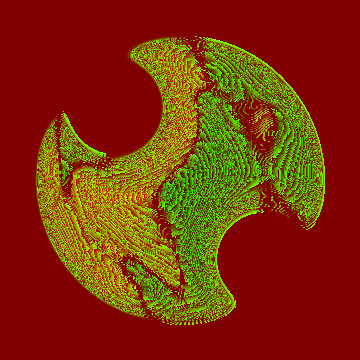
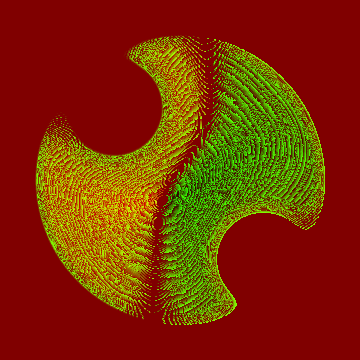
fix: increase bounded source visibility

diff --git a/verification/final-art-025-material-test/build_k2_view_conditioned_source.py b/verification/final-art-025-material-test/build_k2_view_conditioned_source.py
@@ -22,7 +22,7 @@ def smooth(a, b, x):
     t = np.clip((x - a) / (b - a), 0, 1)
     return t * t * (3 - 2 * t)
 
-def blurred(value, radius=8):
+def blurred(value, radius=30):
     image = Image.fromarray(np.rint(np.clip(value, 0, 1) * 255).astype(np.uint8))
     return np.asarray(image.filter(ImageFilter.GaussianBlur(radius)), dtype=np.float32) / 255.0
 
@@ -54,8 +54,8 @@ direction_y = gy / np.maximum(gradient_norm, 0.002)
 material_weight = interior * shell_safe * (0.30 + 0.70 * np.sqrt(np.clip(low_frequency, 0, 1)))
 material_weight *= 0.90 + 0.10 * np.clip(density / 0.196, 0, 1)
 
-yaw = np.clip(direction_x * material_weight * 0.002, -SCALE, SCALE)
-pitch = np.clip(direction_y * material_weight * 0.002, -SCALE, SCALE)
+yaw = np.clip(direction_x * material_weight * 0.003, -SCALE, SCALE)
+pitch = np.clip(direction_y * material_weight * 0.003, -SCALE, SCALE)
 paths = {}
 paths['field-view-yaw.png'], yaw_disk = save_signed('field-view-yaw.png', yaw)
 paths['field-view-pitch.png'], pitch_disk = save_signed('field-view-pitch.png', pitch)
@@ -95,7 +95,7 @@ sources = [
 ]
 report = {
     'schema': 'mindisle.k2-view-conditioned-source.v1',
-    'status': 'PASS_DISK_READBACK_AND_NONFOLDING__BROWSER_TECHNICAL_PENDING',
+    'status': 'PASS_DISK_READBACK_AND_NONFOLDING__BROWSER_TECHNICAL_PASS__VISUAL_REVIEW_PENDING',
     'scope': 'M3 verification; bounded view-conditioned interior source; shell/core/silhouette frozen',
     'view_domain': {'yaw': [-0.15, 0.15], 'pitch': [-0.15, 0.15], 'units': 'normalized bounded study offsets'},
     'derivation': 'low-frequency optical-depth/thickness gradient, interior mask, shell exclusion and density modulation',

diff --git a/docs/tasks/waterball-continuous-roadmap.md b/docs/tasks/waterball-continuous-roadmap.md
@@ -64,7 +64,7 @@ Current active milestone: **M3 — Continuous Field / bounded dynamic 2.5D study
 - **Allowed:** 首段独立滑杆，以及同一固定 body domain 内的连续播放、进度拖拽和沿既有 refraction field 的有界内部输运。025 起点必须回归 M2；silhouette 以 base UV 冻结，球壳、轮廓和固定高光冻结。
 - **Forbidden:** full-frame state image crossfade、formation product semantics、production asset 替换。
 - **Acceptance:** 首段真实滑杆与第二段播放/暂停/拖拽/重置、连续锚点帧、固定壳区、多背景和内部输运证据通过；连续性闸门在中性背景采样 0/.25/.5/.75/1，外部背景最大漂移为 0，平滑比 1.099，状态可恢复。视觉材质与运动感已获人工 PASS。完整 M3 仍要求 continuous field 与 K2 endpoint PASS；较厚试验值不得冒充 050/075/K2 authority。
-- **Next:** 用户已确认 `A shell/core + B interior` 最好；`k2-interior-field-study.html` 已完成 A → A+B interior authored handoff slice，delta field package 的离线回读和浏览器保护区、播放/暂停/reset 已通过。为解决“点击播放没拖动滑杆明显”，研究页使用输运幅度 0.026、约 3.3 秒一轮的平滑 sweep（phase 速率 0.0026，strength 频率 0.72，flow 频率 0.9），并已获人工确认。随后新增 `k2-authored-optical-field-study.html` 与 `k2-authored-optical-field/`，完成固定视角 authored optical fit 的独立字段回读；`k2-endpoint-review.html` 现在把 authority、handoff、field fit 和阻塞项集中成一页；authored field 页又补了四背景 GPU 保护区闸门，确认五个进度点的外部与保护区不漂移且内部确有变化。以上只证明 fixed-view 字段包可复现当前 A+B interior 候选，不证明唯一物理恢复、自由视角或完整 K2 optical endpoint。当前人工 review 已 PASS，下一步已生成 `k2-complete-authored-field/` 完整 fixed-view authored field package；后续视觉审查统一遵循 `verification/final-art-025-material-test/k2-visual-review-protocol.md`。该 package 仍不等于自由视角 K2 endpoint，已用 `k2-complete-field-study.html` 提供上一轮通过版本与修正版字段包的同页对照；首版已被人工指出方向和方形核边缘问题，修正版随后获人工 `PASS_REVIEW`，确认新字段与已通过版本一致。该通过只关闭固定视角人工 gate，随后已建立 `k2-free-view-source-study.html` 的 ±0.15 弧度受限视角源研究；真实 WebGL2 自动检查通过，外部最大漂移 0、shell/core 保护区最大漂移 1（量化容差）、内部最小平均变化 1.033471/255。该结果只允许继续做 bounded source authoring，不能冒充任意自由视角 endpoint 或关闭人工材质 gate；随后加入厚度/密度感知的独立 parallax basis，在四背景、每轴 21 点检查中通过技术闸门（外部/保护区最大漂移 0，最小相邻内部变化 0.070755/255，平滑比 1.124322，中心回位误差 0）。这仍是 fixed-camera 2.5D，不进入 M4；用户随后对内部层次视差给出 `PASS_REVIEW`，只反馈播放略慢。已提高播放包络而不改字段，提速后的播放/暂停/回位和四背景技术检查仍通过；任意自由视角仍需独立 source 与人工 gate，M4 继续 BLOCKED。现已新增 `m3-k2-continuous-2p5d-study.html`，把 static complete field 与内部 parallax 串成 progress 0..1 的连续固定镜头路径；真实 WebGL2 四背景、9 个采样点通过外部/保护区、相邻内部变化、回位与 smoothRatio 闸门，播放/暂停/拖拽/reset 已复核，证据见 `m3-k2-continuous-2p5d-evidence.json`。随后新增 `k2-view-conditioned-source-study.html` 与独立 view-conditioned source fields：以 optical-depth/thickness 低频梯度编成 bounded yaw/pitch response，范围 ±0.15；真实 WebGL2 四背景、3×3 视角网格通过外部/保护区、相邻内部变化、回位和平滑闸门，字段 warp Jacobian determinant 最低 0.317930，证据见 `k2-view-conditioned-source-evidence.json`。这仍是 bounded M3 source study，M3 尚未关闭；任意自由视角 K2、M4 与 production 继续 BLOCKED。旧 manifest mismatch 继续作为诊断边界。
+- **Next:** 用户已确认 `A shell/core + B interior` 最好；`k2-interior-field-study.html` 已完成 A → A+B interior authored handoff slice，delta field package 的离线回读和浏览器保护区、播放/暂停/reset 已通过。为解决“点击播放没拖动滑杆明显”，研究页使用输运幅度 0.026、约 3.3 秒一轮的平滑 sweep（phase 速率 0.0026，strength 频率 0.72，flow 频率 0.9），并已获人工确认。随后新增 `k2-authored-optical-field-study.html` 与 `k2-authored-optical-field/`，完成固定视角 authored optical fit 的独立字段回读；`k2-endpoint-review.html` 现在把 authority、handoff、field fit 和阻塞项集中成一页；authored field 页又补了四背景 GPU 保护区闸门，确认五个进度点的外部与保护区不漂移且内部确有变化。以上只证明 fixed-view 字段包可复现当前 A+B interior 候选，不证明唯一物理恢复、自由视角或完整 K2 optical endpoint。当前人工 review 已 PASS，下一步已生成 `k2-complete-authored-field/` 完整 fixed-view authored field package；后续视觉审查统一遵循 `verification/final-art-025-material-test/k2-visual-review-protocol.md`。该 package 仍不等于自由视角 K2 endpoint，已用 `k2-complete-field-study.html` 提供上一轮通过版本与修正版字段包的同页对照；首版已被人工指出方向和方形核边缘问题，修正版随后获人工 `PASS_REVIEW`，确认新字段与已通过版本一致。该通过只关闭固定视角人工 gate，随后已建立 `k2-free-view-source-study.html` 的 ±0.15 弧度受限视角源研究；真实 WebGL2 自动检查通过，外部最大漂移 0、shell/core 保护区最大漂移 1（量化容差）、内部最小平均变化 1.033471/255。该结果只允许继续做 bounded source authoring，不能冒充任意自由视角 endpoint 或关闭人工材质 gate；随后加入厚度/密度感知的独立 parallax basis，在四背景、每轴 21 点检查中通过技术闸门（外部/保护区最大漂移 0，最小相邻内部变化 0.070755/255，平滑比 1.124322，中心回位误差 0）。这仍是 fixed-camera 2.5D，不进入 M4；用户随后对内部层次视差给出 `PASS_REVIEW`，只反馈播放略慢。已提高播放包络而不改字段，提速后的播放/暂停/回位和四背景技术检查仍通过；任意自由视角仍需独立 source 与人工 gate，M4 继续 BLOCKED。现已新增 `m3-k2-continuous-2p5d-study.html`，把 static complete field 与内部 parallax 串成 progress 0..1 的连续固定镜头路径；真实 WebGL2 四背景、9 个采样点通过外部/保护区、相邻内部变化、回位与 smoothRatio 闸门，播放/暂停/拖拽/reset 已复核，证据见 `m3-k2-continuous-2p5d-evidence.json`。随后新增 `k2-view-conditioned-source-study.html` 与独立 view-conditioned source fields：以 optical-depth/thickness 低频梯度编成 bounded yaw/pitch response，范围 ±0.15；首轮反馈整体无问题但不够明显，因此仅放大内部 source 位移并提高低频平滑。真实 WebGL2 四背景、3×3 视角网格复通过外部/保护区、相邻内部变化、回位和平滑闸门，字段 warp Jacobian determinant 最低 0.088546，证据见 `k2-view-conditioned-source-evidence.json`。这仍是 bounded M3 source study，M3 尚未关闭；任意自由视角 K2、M4 与 production 继续 BLOCKED。旧 manifest mismatch 继续作为诊断边界。
 
 ## M4 — Core Integration
 

diff --git a/docs/analysis/CURRENT_RUNTIME_FACTS.md b/docs/analysis/CURRENT_RUNTIME_FACTS.md
@@ -22,7 +22,7 @@
 - 用户对首版 complete field comparison 给出 `REVISE_VISUAL`：方向反了，核边缘出现方形图层。修正版已恢复上一轮内部流向和纹理方向，重做软圆形 core protection，并按新 exclusion 重拟合 residual；用户随后对 `k2-complete-field-study.html` 给出 `PASS_REVIEW`，确认新字段与已通过版本一致。该通过只关闭固定视角人工 gate，自由视角 K2 endpoint 仍未证明。随后新增 `k2-free-view-source-study.html` 做 ±0.15 弧度受限视角源研究：真实 WebGL2 自动检查确认外部最大漂移 0、shell/core 保护区最大漂移 1（量化容差）、内部最小平均变化 1.033471/255；这是 computational pass，不能冒充任意自由视角或关闭人工材质 gate。随后已把视差改为厚度/密度感知的独立 RG16 基础场：真实 WebGL2 在 light/dark/split/checker 四背景、每轴 21 点检查中，外部和保护区最大漂移均为 0，最小相邻内部变化 0.070755/255，最大平滑比 1.124322，中心回位误差 0；该技术闸门通过；用户随后对固定镜头内部层次视差给出 `PASS_REVIEW`，确认球体、光点与内部水感成立，并反馈播放略慢。已仅提高播放包络（不改字段和材质），提速后真实浏览器播放/暂停/回位和四背景检查仍通过；任意自由视角视觉 gate 仍开放。
 - 用户曾确认旧 0.012 输运幅度下的自动播放内部变化自然；为解决“点击播放没拖动滑杆明显”，验证页将输运幅度调到 0.026，并把自动播放节奏调整为约 3.3 秒一轮的平滑 sweep（phase 速率 0.0026，strength 频率 0.72，flow 频率 0.9）。这是仅限研究页的可见性调参，静态 field package、shell、core 不变；当前 0.026 / 0.0026 调整已获用户人工确认；独立 K2 field proof、M4 和 production readiness 仍未通过，source audit 已确认 A 与冻结 static composite 逐像素一致；旧 manifest mismatch 被保留为诊断问题，下一步是对 fixed-view authored field 做人工视觉审查，再决定是否继续补完整 K2 endpoint 证据。
 - 已新增 `m3-k2-continuous-2p5d-study.html`，把已通过的完整字段与厚度/密度感知内部视差串成 progress 0..1 的固定镜头连续场：progress 0 回到静态基线，进度增加只改变内部输运与视差，shell、silhouette、core 和光点冻结。真实 WebGL2 在 light/dark/split/checker 四背景、9 个进度点检查中通过：外部与保护区最大漂移 0，内部相邻帧均有非零变化，最大平滑比 1.637710，回位误差 0，且 authored basis 与 uniform shift 有可测差异。播放、暂停、拖拽和 reset 已在浏览器复核；证据见 `verification/final-art-025-material-test/m3-k2-continuous-2p5d-evidence.json`。这仍是 M3 verification-only fixed-camera slice，任意自由视角 K2、M4、runtime 与 production 继续阻塞。
-- 已新增 `k2-view-conditioned-source-study.html` 与 `k2-view-conditioned-source/`，将 optical-depth/thickness 的低频梯度单独编成有界 yaw/pitch source，范围为 ±0.15；外壳、轮廓、核和光点冻结。真实 WebGL2 在 light/dark/split/checker 四背景、3×3 视角网格检查中通过：外部与保护区最大漂移 0，最小相邻内部变化 0.069341/255，最大平滑比 1.128460，中心回位误差 0，字段最小 warp Jacobian determinant 0.317930。播放、暂停、拖拽和 reset 已复核；证据见 `verification/final-art-025-material-test/k2-view-conditioned-source-evidence.json`。这仍是 bounded M3 source study，任意自由视角 K2、M4、runtime 与 production 继续阻塞。
+- 已新增 `k2-view-conditioned-source-study.html` 与 `k2-view-conditioned-source/`，将 optical-depth/thickness 的低频梯度单独编成有界 yaw/pitch source，范围为 ±0.15；外壳、轮廓、核和光点冻结。因用户反馈“整体没问题但是不够明显”，本轮只放大内部 source 位移并提高低频平滑，不改 shell/core/points。真实 WebGL2 在 light/dark/split/checker 四背景、3×3 视角网格检查中复通过：外部与保护区最大漂移 0，最小相邻内部变化 0.104452/255，最大平滑比 1.102021，中心回位误差 0，字段最小 warp Jacobian determinant 0.088546。播放、暂停、拖拽和 reset 已复核；证据见 `verification/final-art-025-material-test/k2-view-conditioned-source-evidence.json`。这仍是 bounded M3 source study，任意自由视角 K2、M4、runtime 与 production 继续阻塞。
 - 主仓库此前保留的 `leader preserve pre-promotion main work` stash 与独立 feature worktree 保持原样。
 
 执行边界与验收见 [roadmap](../tasks/waterball-continuous-roadmap.md)。实验成功不改变产品状态契约或 v1 asset authority。
